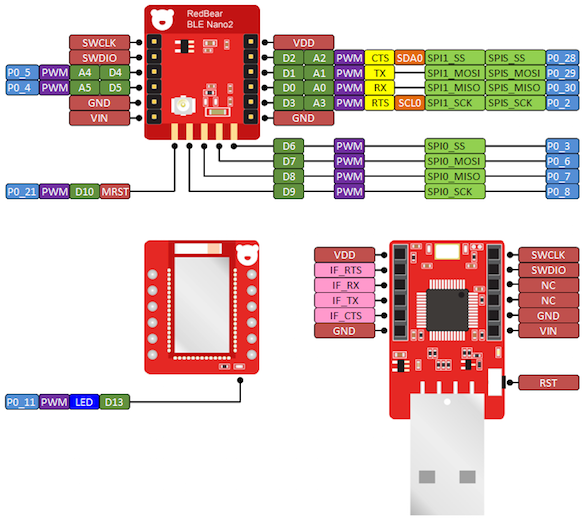
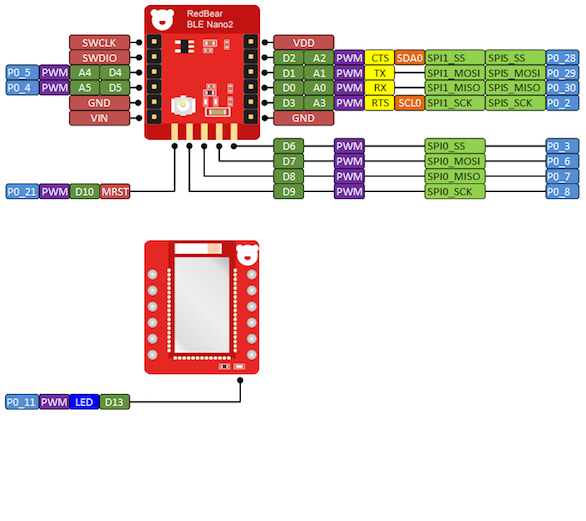
Updates docs.

Changed region(s): [[0.5222, 0.4607, 1.0, 1.0]]

diff --git a/docs/Getting_Started_Guide.md b/docs/Getting_Started_Guide.md
@@ -5,15 +5,20 @@
 To test the board for the first time, follow these steps:
 
 * The preloaded firmware is a BLE Heart Rate peripheral simulator.
-* To test the BLE Nano 2 or Blend 2 boards, connect it to your 5V USB adaptor or PC USB port using an USB **DATA** cable.
-	* Note: Some USB cables are for charging only, no data lines inside.
+* To test the BLE Nano 2 or Blend 2 boards
+	* BLE Nano 2
+		* ![image](./images/Nano2/Nano2_01.jpg)
+		* Stack the BLE Nano 2 on the DAPLink USB dongle
+	* Blend 2	
+		* Connect it to your 5V USB adaptor or PC USB port using an USB **DATA** cable.
+		* Note: Some USB cables are for charging only, no data lines inside.
 * You will see the onboard LED is flashing.
-* Use Nordic's iOS or Android Apps, nRFToolBox and use the HRM icon to connect to the board, the Heart Rate counter will be incresing every 1 second.
+* Use Nordic's iOS or Android Apps, nRFToolBox and use the HRM icon to connect to the board, the Heart Rate counter will be increasing every 1 second.
 * Congrats, your board works as expected.
 
 ## Arduino
 
-- To be written -
+* Follow the [Arduino Installation Guide](./Arduino_Board_Package_Installation_Guide.md).
 
 ## Nordic SDK
 

diff --git a/docs/Arduino_Board_Package_Installation_Guide.md b/docs/Arduino_Board_Package_Installation_Guide.md
@@ -1,11 +1,12 @@
 
-# nRF5x - Arduino Board Package User Guide
+# nRF52 - Arduino Installation Guide
 
-The nRF5x support developing application on Arduino IDE 1.6.7 or above.
+* The nRF52 boards support developing applications using Arduino IDE 1.8.0 or above.
+* Current tested version 1.8.0
 
 ## Install nRF52 Board Package
 
-We assume that you have installed Arduino IDE 1.8.0 or above on your computer, or you have to [download](https://www.arduino.cc/en/Main/Software) and install it first. To install the board package for the nRF5x board, please work through the following steps.
+We assume that you have installed Arduino IDE 1.8.0 or above on your computer, or you have to [download](https://www.arduino.cc/en/Main/Software) and install it first. To install the board package for the nRF52 boards, please work through the following steps.
 
 1. Start Arduino IDE.
 
